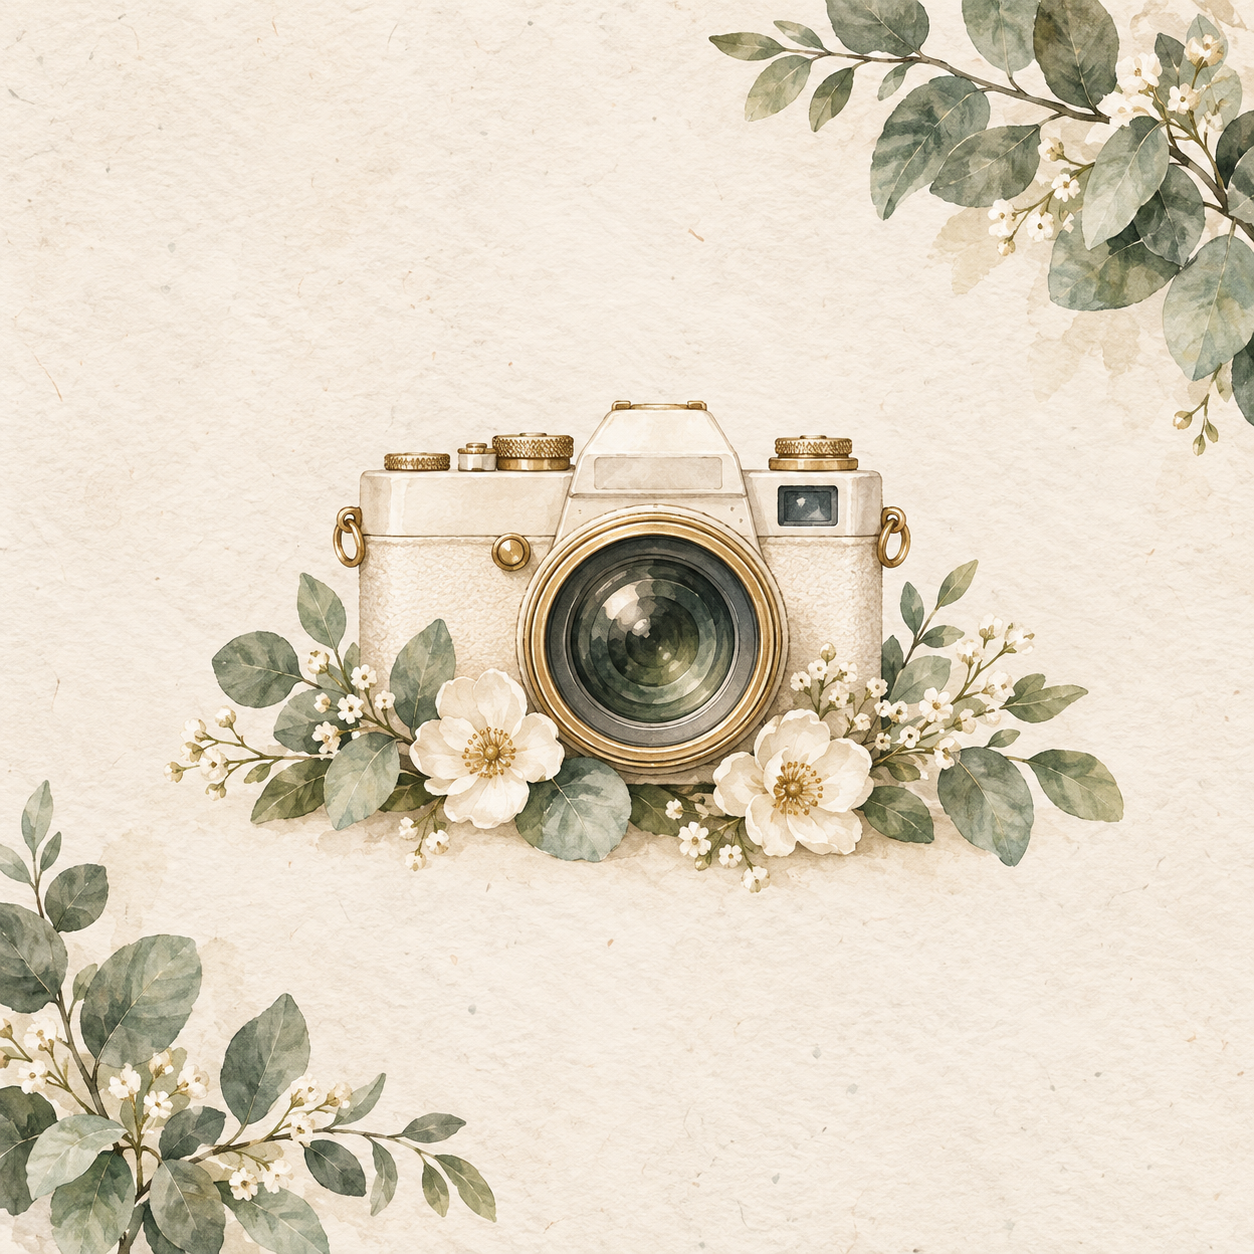
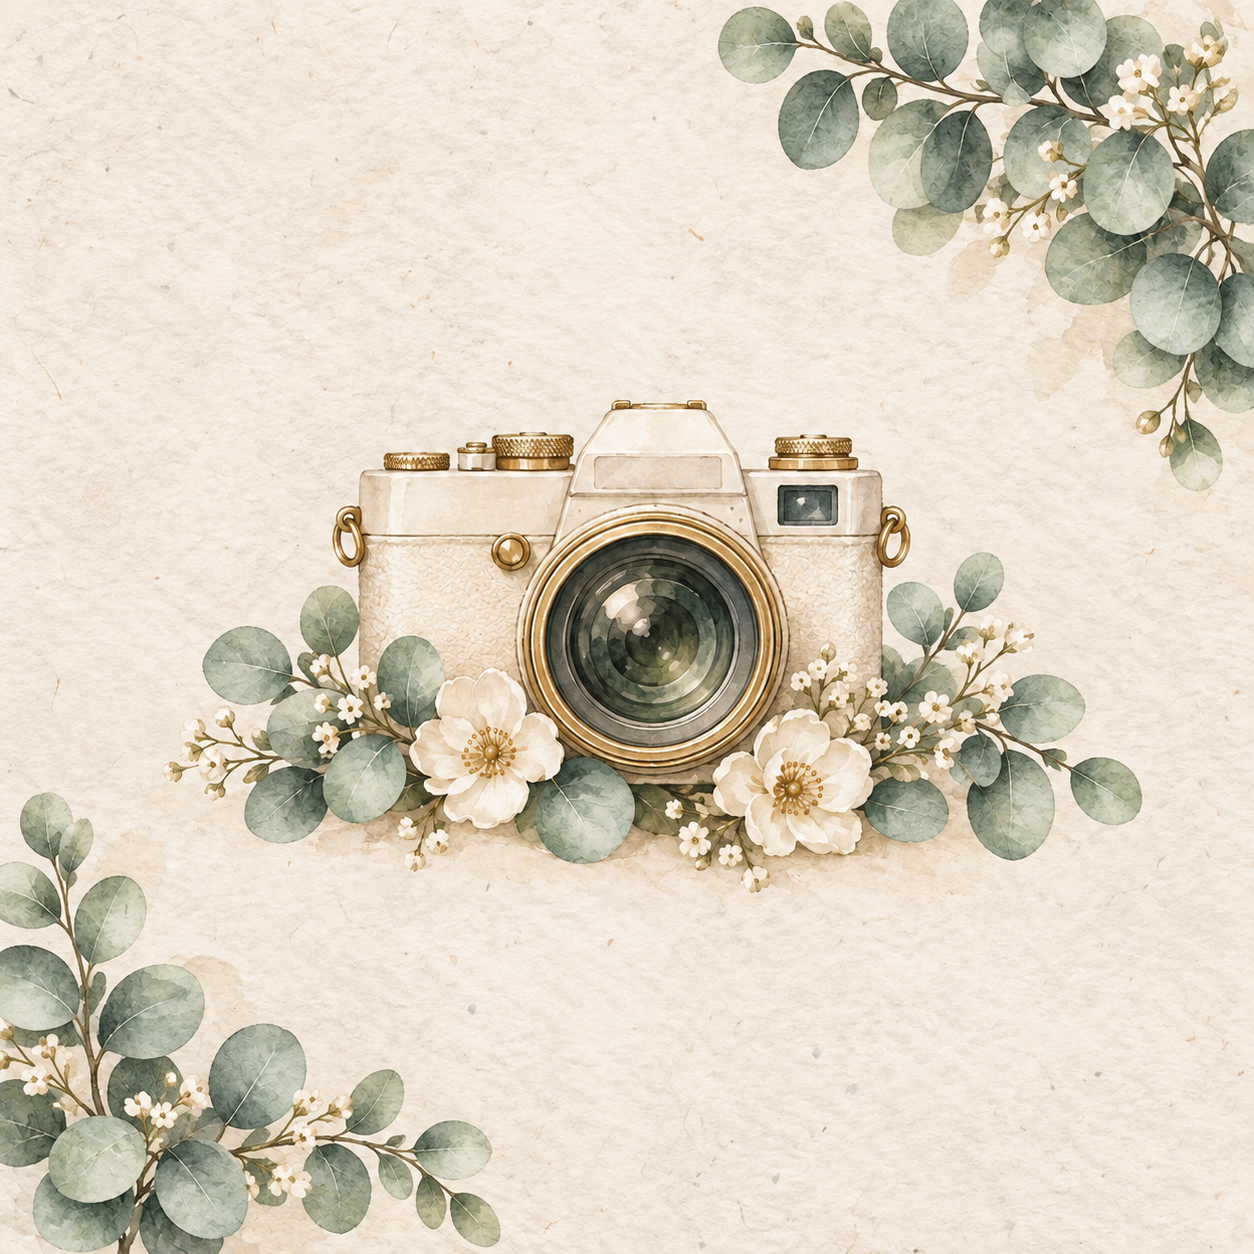
Cambio del 21

diff --git a/src/componentes/hero/Hero.css b/src/componentes/hero/Hero.css
@@ -149,45 +149,90 @@
   opacity: 0.7;
 }
 
-.hero__hoja {
+
+
+
+
+
+.hero__rama-inferior {
   position: absolute;
   z-index: 1;
 
-  height: auto;
-  object-fit: contain;
+  bottom: -2rem;
+
+  width: clamp(14rem, 30vw, 26rem);
 
   pointer-events: none;
   user-select: none;
 }
 
-.hero__hoja--superior-izquierda {
-  top: clamp(1rem, 4vw, 3rem);
-  left: clamp(-2.5rem, -2vw, -0.5rem);
+/* Contenedor ubicado en la esquina inferior izquierda */
+.hero__rama-inferior--izquierda {
+  left: -2rem;
 
-  width: clamp(7rem, 16vw, 12rem);
-
-  transform: rotate(-20deg);
+  transform: rotate(14deg);
+  transform-origin: left bottom;
 }
 
-.hero__hoja--superior-derecha {
-  top: clamp(3rem, 8vw, 6rem);
-  right: clamp(0.5rem, 4vw, 3rem);
+/* Contenedor ubicado en la esquina inferior derecha */
+.hero__rama-inferior--derecha {
+  right: -2rem;
 
-  width: clamp(2.5rem, 6vw, 4.5rem);
-
-  transform: rotate(28deg);
-  opacity: 0.8;
+  /*
+   * La rotación es opuesta para lograr
+   * una composición realmente simétrica.
+   */
+  transform: rotate(-14deg);
+  transform-origin: right bottom;
 }
 
-.hero__hoja--inferior-derecha {
-  right: clamp(-4rem, -3vw, -1rem);
-  bottom: clamp(-1.5rem, -2vw, -0.25rem);
+.hero__rama-inferior-imagen {
+  display: block;
 
-  width: clamp(11rem, 25vw, 20rem);
+  width: 100%;
+  height: auto;
 
-  transform: rotate(-8deg);
-  opacity: 0.9;
+  object-fit: contain;
 }
+
+/* Solamente refleja la imagen, sin modificar su posición */
+.hero__rama-inferior-imagen--invertida {
+  transform: scaleX(-1);
+}
+
+
+
+.hero::after {
+  content: "";
+
+  position: absolute;
+  z-index: 1;
+
+  left: 0;
+  right: 0;
+  bottom: 0;
+
+  height: clamp(3rem, 7vw, 5rem);
+
+  background: linear-gradient(
+    to bottom,
+    rgba(246, 241, 233, 0) 0%,
+    rgba(246, 241, 233, 0.45) 40%,
+    rgba(246, 241, 233, 0.9) 80%,
+    #f6f1e9 100%
+  );
+
+  pointer-events: none;
+}
+
+
+
+
+
+
+
+
+
 
 @media (max-width: 600px) {
     .hero {
@@ -196,7 +241,7 @@
     padding:
       12rem
       1.5rem
-      4rem;
+      7rem;
   }
 
 
@@ -210,26 +255,21 @@
   }
 
 
-
-
-
-  .hero__hoja--superior-izquierda {
-    top: 1rem;
-    left: -2.5rem;
-    width: 8rem;
-  }
-
-  .hero__hoja--superior-derecha {
-    top: 5rem;
-    right: 0.5rem;
-    width: 3rem;
-  }
-
-  .hero__hoja--inferior-derecha {
-    right: -4rem;
-    bottom: -1rem;
+ .hero__rama-inferior {
+    bottom: -1.25rem;
     width: 13rem;
   }
+
+  .hero__rama-inferior--izquierda {
+    left: -1.5rem;
+  }
+
+  .hero__rama-inferior--derecha {
+    right: -1.5rem;
+  }
+
+
+
 }
 
 @media (max-height: 680px) {
@@ -256,3 +296,5 @@
     white-space: nowrap;
   }
 }
+
+

diff --git a/src/componentes/hero/Hero.jsx b/src/componentes/hero/Hero.jsx
@@ -1,48 +1,55 @@
 import "./Hero.css";
 
-import dosHojitas from "../../assets/dos-hojitas.png";
-import grupoCincoHojas from "../../assets/grupo-cinco-hojas.png";
-import hojaIndividual from "../../assets/hoja-individual.png";
 import ramitaDivisora from "../../assets/ramita-eucalipto-divisor.png";
 import ramaSuperiorHero from "../../assets/eucalipto-esquina-superior-izquierda.png";
+import ramaInferiorHero from "../../assets/ramito-eucalipto-transparente.png";
 
 function Hero() {
   return (
     <section className="hero seccion-clara">
+      <img
+        className="hero__rama-superior"
+        src={ramaSuperiorHero}
+        alt=""
+        aria-hidden="true"
+      />
 
+
+
+
+{/* Ramo inferior izquierdo */}
+<div
+  className="hero__rama-inferior hero__rama-inferior--izquierda"
+  aria-hidden="true"
+>
   <img
-    className="hero__rama-superior"
-    src={ramaSuperiorHero}
+    className="hero__rama-inferior-imagen"
+    src={ramaInferiorHero}
     alt=""
-    aria-hidden="true"
   />
+</div>
+
+{/* Ramo inferior derecho */}
+<div
+  className="hero__rama-inferior hero__rama-inferior--derecha"
+  aria-hidden="true"
+>
+  <img
+    className="hero__rama-inferior-imagen hero__rama-inferior-imagen--invertida"
+    src={ramaInferiorHero}
+    alt=""
+  />
+</div>
 
 
 
 
-      <img
-        className="hero__hoja hero__hoja--superior-izquierda"
-        src={dosHojitas}
-        alt=""
-        aria-hidden="true"
-      />
-
-      <img
-        className="hero__hoja hero__hoja--superior-derecha"
-        src={hojaIndividual}
-        alt=""
-        aria-hidden="true"
-      />
 
       <div className="hero__contenido">
         <header className="hero__encabezado">
-          <span className="hero__antesala">
-            Nos
-          </span>
+          <span className="hero__antesala">Nos</span>
 
-          <h1 className="hero__titulo">
-            Casamos
-          </h1>
+          <h1 className="hero__titulo">Casamos</h1>
         </header>
 
         <div className="hero__divisor" aria-hidden="true">
@@ -64,7 +71,7 @@ function Hero() {
         </p>
 
         <p className="hero__frase-final">
-         Porque cada historia linda
+          Porque cada historia linda
           <br />
           merece ser celebrada
         </p>
@@ -74,13 +81,6 @@ function Hero() {
           aria-hidden="true"
         />
       </div>
-
-      <img
-        className="hero__hoja hero__hoja--inferior-derecha"
-        src={grupoCincoHojas}
-        alt=""
-        aria-hidden="true"
-      />
     </section>
   );
 }

diff --git a/src/componentes/lugar/Lugar.jsx b/src/componentes/lugar/Lugar.jsx
@@ -42,9 +42,7 @@ function Lugar() {
           </div>
 
           <div className="lugar__informacion">
-            <p className="lugar__orden texto-descriptivo">
-              Primero
-            </p>
+           
 
             <h3 className="lugar__subtitulo">
               Ceremonia
@@ -104,17 +102,17 @@ function Lugar() {
           </div>
 
           <div className="lugar__informacion">
-            <p className="lugar__orden texto-descriptivo">
-              Después
-            </p>
+            
 
             <h3 className="lugar__subtitulo">
               Celebración
             </h3>
 
-            <p className="lugar__nombre texto-descriptivo">
-              Lo de Salazar Eventos
-            </p>
+       {/*       <p className="lugar__nombre texto-descriptivo">
+          
+        Lo de Salazar Eventos.
+        
+            </p> */}
 
             <address className="lugar__direccion texto-descriptivo">
               Tucumán 1867

diff --git a/src/componentes/dresscode/Dresscode.jsx b/src/componentes/dresscode/Dresscode.jsx
@@ -8,12 +8,7 @@ import dosHojitas from "../../assets/dos-hojitas.png";
 function DressCode() {
   return (
     <section className="dress-code seccion-clara">
-      <img
-        className="dress-code__hoja dress-code__hoja--superior"
-        src={broteTresHojas}
-        alt=""
-        aria-hidden="true"
-      />
+    
 
       <div className="dress-code__contenido">
         <h2 className="titulo-seccion dress-code__titulo">
@@ -48,12 +43,7 @@ function DressCode() {
         />
       </div>
 
-      <img
-        className="dress-code__hoja dress-code__hoja--inferior"
-        src={dosHojitas}
-        alt=""
-        aria-hidden="true"
-      />
+   
     </section>
   );
 }
